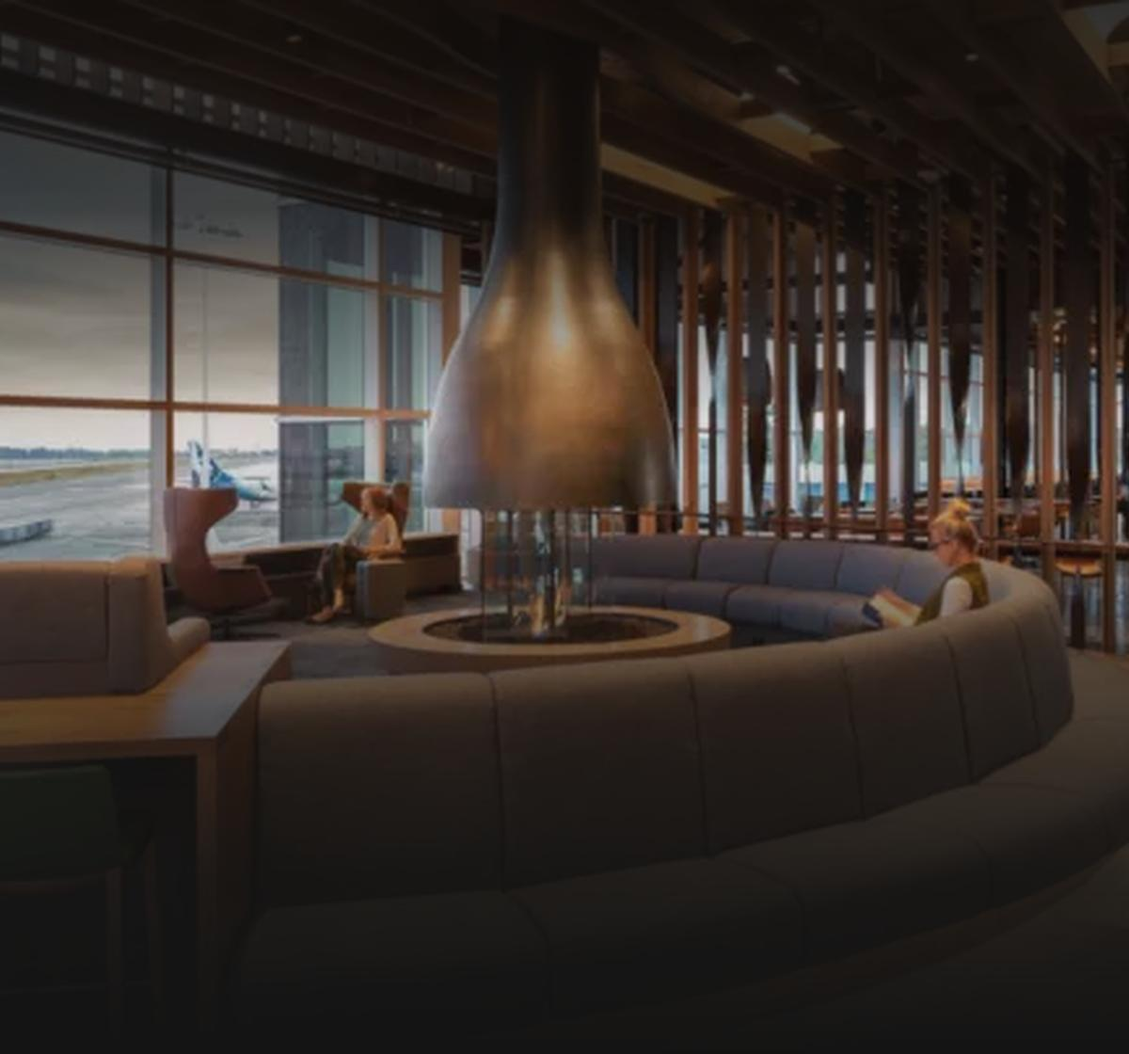
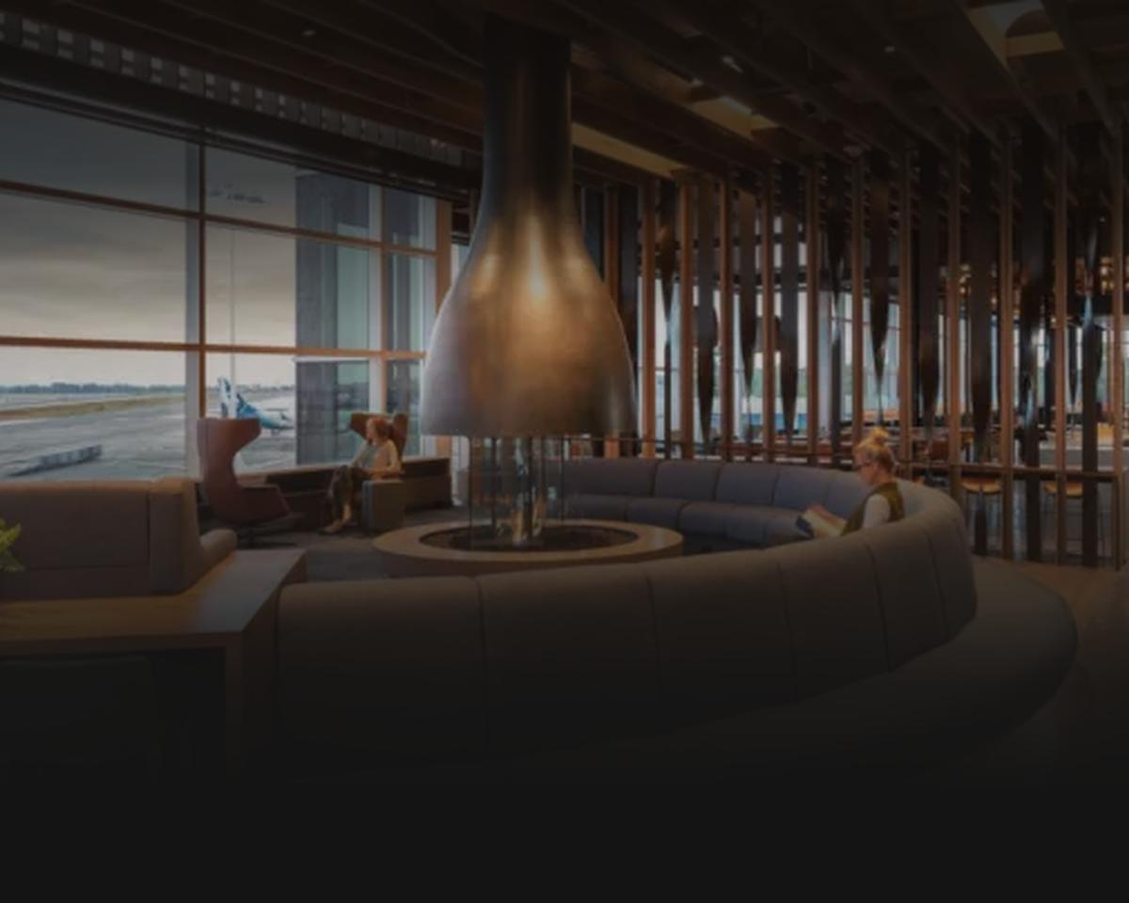
CX Time email: fill the reading pane up to 800px
Opened in a desktop reading pane, the 600px card sat in the middle of
wide empty margins. The card now fills the pane up to 800px. The hero,
Sadu bands and CTA panel span it. The story spreads scale in proportion
(photo 47%, text 53%) instead of using fixed 264/256px cells. The intro
is capped at 600px so its lines stay readable. Outlook for Windows gets
800px ghost tables, and the hero VML is 800x640.

The hero crop becomes 5:4 (1200x960) to match. Its foot fade reaches solid
by 88%, so the hero box can't end on a lighter edge at wide widths, and
the zone behind the date line is checked for brightness too.

Checked at 1000px, 700px, 375px and 400px with no media queries: no
sideways scroll.

Claude-Session: https://claude.ai/code/session_01XUuF7SoRDKbsrKoLScTXEQ

diff --git a/sites/cx-time/email/edition-3/index.html b/sites/cx-time/email/edition-3/index.html
@@ -36,10 +36,10 @@ a[x-apple-data-detectors]{color:inherit!important;text-decoration:none!important
 <body style="margin:0;padding:0;background:#0C0C0C" bgcolor="#0C0C0C">
 <div style="display:none;font-size:1px;line-height:1px;max-height:0;max-width:0;opacity:0;overflow:hidden;mso-hide:all;color:#0C0C0C">Cosm’s in-seat menus, a museum you navigate by mood, and a showroom that starts with lunch.&#847;&zwnj;&nbsp;&#847;&zwnj;&nbsp;&#847;&zwnj;&nbsp;&#847;&zwnj;&nbsp;&#847;&zwnj;&nbsp;&#847;&zwnj;&nbsp;&#847;&zwnj;&nbsp;&#847;&zwnj;&nbsp;&#847;&zwnj;&nbsp;&#847;&zwnj;&nbsp;&#847;&zwnj;&nbsp;&#847;&zwnj;&nbsp;&#847;&zwnj;&nbsp;&#847;&zwnj;&nbsp;&#847;&zwnj;&nbsp;&#847;&zwnj;&nbsp;&#847;&zwnj;&nbsp;&#847;&zwnj;&nbsp;&#847;&zwnj;&nbsp;&#847;&zwnj;&nbsp;&#847;&zwnj;&nbsp;&#847;&zwnj;&nbsp;&#847;&zwnj;&nbsp;&#847;&zwnj;&nbsp;&#847;&zwnj;&nbsp;&#847;&zwnj;&nbsp;&#847;&zwnj;&nbsp;&#847;&zwnj;&nbsp;&#847;&zwnj;&nbsp;&#847;&zwnj;&nbsp;&#847;&zwnj;&nbsp;&#847;&zwnj;&nbsp;&#847;&zwnj;&nbsp;&#847;&zwnj;&nbsp;&#847;&zwnj;&nbsp;&#847;&zwnj;&nbsp;&#847;&zwnj;&nbsp;&#847;&zwnj;&nbsp;&#847;&zwnj;&nbsp;&#847;&zwnj;&nbsp;&#847;&zwnj;&nbsp;&#847;&zwnj;&nbsp;&#847;&zwnj;&nbsp;&#847;&zwnj;&nbsp;&#847;&zwnj;&nbsp;&#847;&zwnj;&nbsp;&#847;&zwnj;&nbsp;&#847;&zwnj;&nbsp;&#847;&zwnj;&nbsp;&#847;&zwnj;&nbsp;&#847;&zwnj;&nbsp;&#847;&zwnj;&nbsp;&#847;&zwnj;&nbsp;&#847;&zwnj;&nbsp;&#847;&zwnj;&nbsp;&#847;&zwnj;&nbsp;&#847;&zwnj;&nbsp;&#847;&zwnj;&nbsp;&#847;&zwnj;&nbsp;&#847;&zwnj;&nbsp;&#847;&zwnj;&nbsp;&#847;&zwnj;&nbsp;&#847;&zwnj;&nbsp;&#847;&zwnj;&nbsp;&#847;&zwnj;&nbsp;&#847;&zwnj;&nbsp;&#847;&zwnj;&nbsp;&#847;&zwnj;&nbsp;&#847;&zwnj;&nbsp;&#847;&zwnj;&nbsp;</div>
 <table role="presentation" width="100%" cellpadding="0" cellspacing="0" border="0" bgcolor="#0C0C0C" style="width:100%;background:#0C0C0C"><tr><td class="outer" align="center" style="padding:32px 0 48px">
-<!--[if mso]><table role="presentation" width="600" cellpadding="0" cellspacing="0" border="0" align="center"><tr><td><![endif]-->
-<table role="presentation" class="w" width="100%" cellpadding="0" cellspacing="0" border="0" bgcolor="#141414" style="width:100%;max-width:600px;background:#141414;margin:0 auto">
+<!--[if mso]><table role="presentation" width="800" cellpadding="0" cellspacing="0" border="0" align="center"><tr><td><![endif]-->
+<table role="presentation" class="w" width="100%" cellpadding="0" cellspacing="0" border="0" bgcolor="#141414" style="width:100%;max-width:800px;background:#141414;margin:0 auto">
 <tr><td style="padding:0">
-<!--[if mso]><v:rect xmlns:v="urn:schemas-microsoft-com:vml" fill="true" stroke="false" style="width:600px;height:560px"><v:fill type="frame" src="https://aldar-cx-time.netlify.app/email/edition-3/hero.jpg" color="#141414"/><v:textbox inset="0,0,0,0"><![endif]-->
+<!--[if mso]><v:rect xmlns:v="urn:schemas-microsoft-com:vml" fill="true" stroke="false" style="width:800px;height:640px"><v:fill type="frame" src="https://aldar-cx-time.netlify.app/email/edition-3/hero.jpg" color="#141414"/><v:textbox inset="0,0,0,0"><![endif]-->
 <table role="presentation" width="100%" cellpadding="0" cellspacing="0" border="0" bgcolor="#141414" background="https://aldar-cx-time.netlify.app/email/edition-3/hero.jpg" style="width:100%;background:#141414 url(https://aldar-cx-time.netlify.app/email/edition-3/hero.jpg) center top / cover no-repeat"><tr><td style="padding:0">
 <table role="presentation" width="100%" cellpadding="0" cellspacing="0" border="0" style="width:100%">
 <tr><td class="px" align="center" style="padding:36px 40px 0;text-align:center">
@@ -50,14 +50,14 @@ a[x-apple-data-detectors]{color:inherit!important;text-decoration:none!important
 <tr><td class="px" style="padding:0 40px 0"><table role="presentation" width="40" cellpadding="0" cellspacing="0" border="0" style="width:40px"><tr><td height="1" bgcolor="#D9B46A" style="height:1px;line-height:1px;font-size:0;background:#D9B46A">&nbsp;</td></tr></table><div style="height:20px;line-height:20px;font-size:0;mso-line-height-rule:exactly;">&nbsp;</div>
 <div style="font-family:'Poppins','Helvetica Neue',Helvetica,Arial,sans-serif;font-size:10px;line-height:14px;mso-line-height-rule:exactly;color:#C4BFB5;letter-spacing:2.6px;text-transform:uppercase;"><span style="color:#E6C47F">Edition 3</span>&nbsp;&nbsp;&middot;&nbsp;&nbsp;2 November 2026</div><div style="height:16px;line-height:16px;font-size:0;mso-line-height-rule:exactly;">&nbsp;</div>
 <div class="h1" style="font-family:'Poppins','Helvetica Neue',Helvetica,Arial,sans-serif;font-size:56px;line-height:60px;mso-line-height-rule:exactly;color:#F3EFE6;letter-spacing:-.8px;font-weight:300;">Worth leaving<br>home for.</div><div style="height:24px;line-height:24px;font-size:0;mso-line-height-rule:exactly;">&nbsp;</div>
-<div style="font-family:'Poppins','Helvetica Neue',Helvetica,Arial,sans-serif;font-size:15px;line-height:26px;mso-line-height-rule:exactly;color:#C4BFB5;">This week’s edition is about the moment a visit stops being a transaction and becomes an experience worth leaving home for. Three stories lead it, and each comes with what it could mean for Aldar.</div></td></tr>
+<div style="font-family:'Poppins','Helvetica Neue',Helvetica,Arial,sans-serif;font-size:15px;line-height:26px;mso-line-height-rule:exactly;color:#C4BFB5;max-width:600px;">This week’s edition is about the moment a visit stops being a transaction and becomes an experience worth leaving home for. Three stories lead it, and each comes with what it could mean for Aldar.</div></td></tr>
 <tr><td height="8" style="height:8px;font-size:0;line-height:0">&nbsp;</td></tr>
 </table></td></tr></table>
 <!--[if mso]></v:textbox></v:rect><![endif]-->
 </td></tr>
-<tr><td class="px" align="center" style="padding:52px 40px 52px;text-align:center"><img src="https://aldar-cx-time.netlify.app/email/assets/pat-sadu-band.png" width="520" height="28" alt="" class="fi" style="display:block;width:520px;max-width:100%;height:auto;border:0;margin:0 auto"></td></tr>
-<tr><td class="px" style="padding:0 40px 0"><table role="presentation" width="100%" cellpadding="0" cellspacing="0" border="0" style="width:100%"><tr><td valign="middle" style="font-size:0;text-align:left"><!--[if mso]><table role="presentation" width="520" cellpadding="0" cellspacing="0" border="0"><tr><td width="264" valign="middle" dir="ltr"><![endif]--><div class="st" dir="ltr" style="display:inline-block;width:100%;max-width:264px;vertical-align:middle;text-align:left"><a href="https://aldar-cx-time.netlify.app" target="_blank"><img src="https://aldar-cx-time.netlify.app/email/edition-3/01.jpg" width="264" height="330" alt="Cosm" class="fi" style="display:block;width:264px;max-width:100%;height:auto;border:0;background:#1E1E1E;font-family:Arial,sans-serif;font-size:12px;color:#8E897F"></a></div><!--[if mso]></td><td width="256" valign="middle" dir="ltr"><![endif]--><div class="st pt16" dir="ltr" style="display:inline-block;width:100%;max-width:256px;vertical-align:middle;text-align:left"><div class="g0" style="padding-left:28px"><div style="font-family:'Poppins','Helvetica Neue',Helvetica,Arial,sans-serif;font-size:56px;line-height:56px;mso-line-height-rule:exactly;color:#D9B46A;font-weight:200;">01</div><div style="height:14px;line-height:14px;font-size:0;mso-line-height-rule:exactly;">&nbsp;</div><div style="font-family:'Poppins','Helvetica Neue',Helvetica,Arial,sans-serif;font-size:9px;line-height:13px;mso-line-height-rule:exactly;color:#8E897F;letter-spacing:2.6px;text-transform:uppercase;">Cosm &middot; Cinema domes</div><div style="height:12px;line-height:12px;font-size:0;mso-line-height-rule:exactly;">&nbsp;</div><div style="font-family:'Poppins','Helvetica Neue',Helvetica,Arial,sans-serif;font-size:24px;line-height:31px;mso-line-height-rule:exactly;color:#F3EFE6;font-weight:300;"><a href="https://aldar-cx-time.netlify.app" target="_blank" style="color:#F3EFE6;text-decoration:none">The film’s own menu, served to your seat</a></div><div style="height:12px;line-height:12px;font-size:0;mso-line-height-rule:exactly;">&nbsp;</div><div style="font-family:'Poppins','Helvetica Neue',Helvetica,Arial,sans-serif;font-size:13px;line-height:22px;mso-line-height-rule:exactly;color:#C4BFB5;">Cosm’s cinema domes pair each film with its own menu and bring it to your seat, so dinner becomes part of the show.</div></div></div><!--[if mso]></td></tr></table><![endif]--></td></tr></table></td></tr><tr><td class="px" style="padding:56px 40px 0"><table role="presentation" width="100%" cellpadding="0" cellspacing="0" border="0" style="width:100%"><tr><td dir="rtl" valign="middle" style="font-size:0;text-align:left"><!--[if mso]><table role="presentation" width="520" cellpadding="0" cellspacing="0" border="0" dir="rtl"><tr><td width="264" valign="middle" dir="ltr"><![endif]--><div class="st" dir="ltr" style="display:inline-block;width:100%;max-width:264px;vertical-align:middle;text-align:left"><a href="https://aldar-cx-time.netlify.app" target="_blank"><img src="https://aldar-cx-time.netlify.app/email/edition-3/02.jpg" width="264" height="330" alt="Portland’s science museum" class="fi" style="display:block;width:264px;max-width:100%;height:auto;border:0;background:#1E1E1E;font-family:Arial,sans-serif;font-size:12px;color:#8E897F"></a></div><!--[if mso]></td><td width="256" valign="middle" dir="ltr"><![endif]--><div class="st pt16" dir="ltr" style="display:inline-block;width:100%;max-width:256px;vertical-align:middle;text-align:left"><div class="g0" style="padding-right:28px"><div style="font-family:'Poppins','Helvetica Neue',Helvetica,Arial,sans-serif;font-size:56px;line-height:56px;mso-line-height-rule:exactly;color:#D9B46A;font-weight:200;">02</div><div style="height:14px;line-height:14px;font-size:0;mso-line-height-rule:exactly;">&nbsp;</div><div style="font-family:'Poppins','Helvetica Neue',Helvetica,Arial,sans-serif;font-size:9px;line-height:13px;mso-line-height-rule:exactly;color:#8E897F;letter-spacing:2.6px;text-transform:uppercase;">Portland’s science museum &middot; Museum</div><div style="height:12px;line-height:12px;font-size:0;mso-line-height-rule:exactly;">&nbsp;</div><div style="font-family:'Poppins','Helvetica Neue',Helvetica,Arial,sans-serif;font-size:24px;line-height:31px;mso-line-height-rule:exactly;color:#F3EFE6;font-weight:300;"><a href="https://aldar-cx-time.netlify.app" target="_blank" style="color:#F3EFE6;text-decoration:none">A route you choose by mood, not by floor plan</a></div><div style="height:12px;line-height:12px;font-size:0;mso-line-height-rule:exactly;">&nbsp;</div><div style="font-family:'Poppins','Helvetica Neue',Helvetica,Arial,sans-serif;font-size:13px;line-height:22px;mso-line-height-rule:exactly;color:#C4BFB5;">Visitors pick their way through the museum by how they want to feel, rather than following a fixed map.</div></div></div><!--[if mso]></td></tr></table><![endif]--></td></tr></table></td></tr><tr><td class="px" style="padding:56px 40px 0"><table role="presentation" width="100%" cellpadding="0" cellspacing="0" border="0" style="width:100%"><tr><td valign="middle" style="font-size:0;text-align:left"><!--[if mso]><table role="presentation" width="520" cellpadding="0" cellspacing="0" border="0"><tr><td width="264" valign="middle" dir="ltr"><![endif]--><div class="st" dir="ltr" style="display:inline-block;width:100%;max-width:264px;vertical-align:middle;text-align:left"><a href="https://aldar-cx-time.netlify.app" target="_blank"><img src="https://aldar-cx-time.netlify.app/email/edition-3/03.jpg" width="264" height="330" alt="Jaguar, London" class="fi" style="display:block;width:264px;max-width:100%;height:auto;border:0;background:#1E1E1E;font-family:Arial,sans-serif;font-size:12px;color:#8E897F"></a></div><!--[if mso]></td><td width="256" valign="middle" dir="ltr"><![endif]--><div class="st pt16" dir="ltr" style="display:inline-block;width:100%;max-width:256px;vertical-align:middle;text-align:left"><div class="g0" style="padding-left:28px"><div style="font-family:'Poppins','Helvetica Neue',Helvetica,Arial,sans-serif;font-size:56px;line-height:56px;mso-line-height-rule:exactly;color:#D9B46A;font-weight:200;">03</div><div style="height:14px;line-height:14px;font-size:0;mso-line-height-rule:exactly;">&nbsp;</div><div style="font-family:'Poppins','Helvetica Neue',Helvetica,Arial,sans-serif;font-size:9px;line-height:13px;mso-line-height-rule:exactly;color:#8E897F;letter-spacing:2.6px;text-transform:uppercase;">Jaguar, London &middot; Showroom</div><div style="height:12px;line-height:12px;font-size:0;mso-line-height-rule:exactly;">&nbsp;</div><div style="font-family:'Poppins','Helvetica Neue',Helvetica,Arial,sans-serif;font-size:24px;line-height:31px;mso-line-height-rule:exactly;color:#F3EFE6;font-weight:300;"><a href="https://aldar-cx-time.netlify.app" target="_blank" style="color:#F3EFE6;text-decoration:none">A showroom that opens with lunch, not a pitch</a></div><div style="height:12px;line-height:12px;font-size:0;mso-line-height-rule:exactly;">&nbsp;</div><div style="font-family:'Poppins','Helvetica Neue',Helvetica,Arial,sans-serif;font-size:13px;line-height:22px;mso-line-height-rule:exactly;color:#C4BFB5;">Jaguar’s London showroom welcomes visitors to the table before anyone talks about a car.</div></div></div><!--[if mso]></td></tr></table><![endif]--></td></tr></table></td></tr>
-<tr><td class="px" align="center" style="padding:60px 40px 0;text-align:center"><img src="https://aldar-cx-time.netlify.app/email/assets/pat-sadu-band.png" width="520" height="28" alt="" class="fi" style="display:block;width:520px;max-width:100%;height:auto;border:0;margin:0 auto"></td></tr>
+<tr><td class="px" align="center" style="padding:52px 40px 52px;text-align:center"><img src="https://aldar-cx-time.netlify.app/email/assets/pat-sadu-band.png" width="720" height="39" alt="" class="fi" style="display:block;width:720px;max-width:100%;height:auto;border:0;margin:0 auto"></td></tr>
+<tr><td class="px" style="padding:0 40px 0"><table role="presentation" width="100%" cellpadding="0" cellspacing="0" border="0" style="width:100%"><tr><td valign="middle" style="font-size:0;text-align:left"><!--[if mso]><table role="presentation" width="720" cellpadding="0" cellspacing="0" border="0"><tr><td width="338" valign="middle" dir="ltr"><![endif]--><div class="st" dir="ltr" style="display:inline-block;width:47%;vertical-align:middle;text-align:left"><a href="https://aldar-cx-time.netlify.app" target="_blank"><img src="https://aldar-cx-time.netlify.app/email/edition-3/01.jpg" width="338" height="423" alt="Cosm" class="fi" style="display:block;width:100%;max-width:100%;height:auto;border:0;background:#1E1E1E;font-family:Arial,sans-serif;font-size:12px;color:#8E897F"></a></div><!--[if mso]></td><td width="382" valign="middle" dir="ltr"><![endif]--><div class="st pt16" dir="ltr" style="display:inline-block;width:53%;vertical-align:middle;text-align:left"><div class="g0" style="padding-left:32px"><div style="font-family:'Poppins','Helvetica Neue',Helvetica,Arial,sans-serif;font-size:56px;line-height:56px;mso-line-height-rule:exactly;color:#D9B46A;font-weight:200;">01</div><div style="height:14px;line-height:14px;font-size:0;mso-line-height-rule:exactly;">&nbsp;</div><div style="font-family:'Poppins','Helvetica Neue',Helvetica,Arial,sans-serif;font-size:9px;line-height:13px;mso-line-height-rule:exactly;color:#8E897F;letter-spacing:2.6px;text-transform:uppercase;">Cosm &middot; Cinema domes</div><div style="height:12px;line-height:12px;font-size:0;mso-line-height-rule:exactly;">&nbsp;</div><div style="font-family:'Poppins','Helvetica Neue',Helvetica,Arial,sans-serif;font-size:24px;line-height:31px;mso-line-height-rule:exactly;color:#F3EFE6;font-weight:300;"><a href="https://aldar-cx-time.netlify.app" target="_blank" style="color:#F3EFE6;text-decoration:none">The film’s own menu, served to your seat</a></div><div style="height:12px;line-height:12px;font-size:0;mso-line-height-rule:exactly;">&nbsp;</div><div style="font-family:'Poppins','Helvetica Neue',Helvetica,Arial,sans-serif;font-size:13px;line-height:22px;mso-line-height-rule:exactly;color:#C4BFB5;">Cosm’s cinema domes pair each film with its own menu and bring it to your seat, so dinner becomes part of the show.</div></div></div><!--[if mso]></td></tr></table><![endif]--></td></tr></table></td></tr><tr><td class="px" style="padding:56px 40px 0"><table role="presentation" width="100%" cellpadding="0" cellspacing="0" border="0" style="width:100%"><tr><td dir="rtl" valign="middle" style="font-size:0;text-align:left"><!--[if mso]><table role="presentation" width="720" cellpadding="0" cellspacing="0" border="0" dir="rtl"><tr><td width="338" valign="middle" dir="ltr"><![endif]--><div class="st" dir="ltr" style="display:inline-block;width:47%;vertical-align:middle;text-align:left"><a href="https://aldar-cx-time.netlify.app" target="_blank"><img src="https://aldar-cx-time.netlify.app/email/edition-3/02.jpg" width="338" height="423" alt="Portland’s science museum" class="fi" style="display:block;width:100%;max-width:100%;height:auto;border:0;background:#1E1E1E;font-family:Arial,sans-serif;font-size:12px;color:#8E897F"></a></div><!--[if mso]></td><td width="382" valign="middle" dir="ltr"><![endif]--><div class="st pt16" dir="ltr" style="display:inline-block;width:53%;vertical-align:middle;text-align:left"><div class="g0" style="padding-right:32px"><div style="font-family:'Poppins','Helvetica Neue',Helvetica,Arial,sans-serif;font-size:56px;line-height:56px;mso-line-height-rule:exactly;color:#D9B46A;font-weight:200;">02</div><div style="height:14px;line-height:14px;font-size:0;mso-line-height-rule:exactly;">&nbsp;</div><div style="font-family:'Poppins','Helvetica Neue',Helvetica,Arial,sans-serif;font-size:9px;line-height:13px;mso-line-height-rule:exactly;color:#8E897F;letter-spacing:2.6px;text-transform:uppercase;">Portland’s science museum &middot; Museum</div><div style="height:12px;line-height:12px;font-size:0;mso-line-height-rule:exactly;">&nbsp;</div><div style="font-family:'Poppins','Helvetica Neue',Helvetica,Arial,sans-serif;font-size:24px;line-height:31px;mso-line-height-rule:exactly;color:#F3EFE6;font-weight:300;"><a href="https://aldar-cx-time.netlify.app" target="_blank" style="color:#F3EFE6;text-decoration:none">A route you choose by mood, not by floor plan</a></div><div style="height:12px;line-height:12px;font-size:0;mso-line-height-rule:exactly;">&nbsp;</div><div style="font-family:'Poppins','Helvetica Neue',Helvetica,Arial,sans-serif;font-size:13px;line-height:22px;mso-line-height-rule:exactly;color:#C4BFB5;">Visitors pick their way through the museum by how they want to feel, rather than following a fixed map.</div></div></div><!--[if mso]></td></tr></table><![endif]--></td></tr></table></td></tr><tr><td class="px" style="padding:56px 40px 0"><table role="presentation" width="100%" cellpadding="0" cellspacing="0" border="0" style="width:100%"><tr><td valign="middle" style="font-size:0;text-align:left"><!--[if mso]><table role="presentation" width="720" cellpadding="0" cellspacing="0" border="0"><tr><td width="338" valign="middle" dir="ltr"><![endif]--><div class="st" dir="ltr" style="display:inline-block;width:47%;vertical-align:middle;text-align:left"><a href="https://aldar-cx-time.netlify.app" target="_blank"><img src="https://aldar-cx-time.netlify.app/email/edition-3/03.jpg" width="338" height="423" alt="Jaguar, London" class="fi" style="display:block;width:100%;max-width:100%;height:auto;border:0;background:#1E1E1E;font-family:Arial,sans-serif;font-size:12px;color:#8E897F"></a></div><!--[if mso]></td><td width="382" valign="middle" dir="ltr"><![endif]--><div class="st pt16" dir="ltr" style="display:inline-block;width:53%;vertical-align:middle;text-align:left"><div class="g0" style="padding-left:32px"><div style="font-family:'Poppins','Helvetica Neue',Helvetica,Arial,sans-serif;font-size:56px;line-height:56px;mso-line-height-rule:exactly;color:#D9B46A;font-weight:200;">03</div><div style="height:14px;line-height:14px;font-size:0;mso-line-height-rule:exactly;">&nbsp;</div><div style="font-family:'Poppins','Helvetica Neue',Helvetica,Arial,sans-serif;font-size:9px;line-height:13px;mso-line-height-rule:exactly;color:#8E897F;letter-spacing:2.6px;text-transform:uppercase;">Jaguar, London &middot; Showroom</div><div style="height:12px;line-height:12px;font-size:0;mso-line-height-rule:exactly;">&nbsp;</div><div style="font-family:'Poppins','Helvetica Neue',Helvetica,Arial,sans-serif;font-size:24px;line-height:31px;mso-line-height-rule:exactly;color:#F3EFE6;font-weight:300;"><a href="https://aldar-cx-time.netlify.app" target="_blank" style="color:#F3EFE6;text-decoration:none">A showroom that opens with lunch, not a pitch</a></div><div style="height:12px;line-height:12px;font-size:0;mso-line-height-rule:exactly;">&nbsp;</div><div style="font-family:'Poppins','Helvetica Neue',Helvetica,Arial,sans-serif;font-size:13px;line-height:22px;mso-line-height-rule:exactly;color:#C4BFB5;">Jaguar’s London showroom welcomes visitors to the table before anyone talks about a car.</div></div></div><!--[if mso]></td></tr></table><![endif]--></td></tr></table></td></tr>
+<tr><td class="px" align="center" style="padding:60px 40px 0;text-align:center"><img src="https://aldar-cx-time.netlify.app/email/assets/pat-sadu-band.png" width="720" height="39" alt="" class="fi" style="display:block;width:720px;max-width:100%;height:auto;border:0;margin:0 auto"></td></tr>
 <tr><td class="px" style="padding:48px 24px 0">
 <table role="presentation" width="100%" cellpadding="0" cellspacing="0" border="0" bgcolor="#1C1A16" style="width:100%;background:#1C1A16;background-image:linear-gradient(180deg,#24211B 0%,#16140F 100%);border:1px solid #3A3226;border-collapse:separate;border-radius:4px"><tr><td align="center" class="px" style="padding:56px 48px 54px;text-align:center">
 <div style="font-family:'Poppins','Helvetica Neue',Helvetica,Arial,sans-serif;font-size:10px;line-height:14px;mso-line-height-rule:exactly;color:#C4BFB5;letter-spacing:3px;text-transform:uppercase;">Edition 3 is live in the Hub</div><div style="height:18px;line-height:18px;font-size:0;mso-line-height-rule:exactly;">&nbsp;</div>

diff --git a/pipeline/cxtime/edm.py b/pipeline/cxtime/edm.py
@@ -4,13 +4,12 @@ render(data) returns send-ready email HTML that follows the approved reference f
 presentation tables, inline styles, Outlook conditionals and VML, a hidden preheader, Poppins
 with Arial for Outlook, and no "For Aldar" lines.
 
-It fits the reading window. The card is fluid (100% wide, at most 600px), so it shrinks to a
-narrow reading pane or a phone even where media queries are ignored. The story spreads are
-"fluid hybrid": two inline-blocks that sit side by side when there is room and stack when there
-isn't (image first in every row, via the dir="rtl" swap on 02). Outlook for Windows, which
-supports neither, gets fixed 600px ghost tables.
+It fits the reading window. The card is fluid: it fills the pane up to 800px (wider than the
+600px design board, so a desktop reading pane isn't mostly empty margin) and shrinks to any
+narrower pane or phone. The story spreads scale in proportion (photo 47%, text 53%) and stack,
+photo first, below 620px (02 via the dir="rtl" swap). Outlook for Windows gets 800px ghost tables.
 
-make_images() writes the JPEG crops: the hero at 1200x1120 with both fades baked into the pixels,
+make_images() writes the JPEG crops: the hero at 1200x960 with both fades baked into the pixels,
 and the story photos at 528x660. make_patterns() draws the Sadu lozenge PNGs. Everything is
 written under sites/cx-time/email/ and so is hosted with the CX Time site.
 """
@@ -82,16 +81,17 @@ def _p99(zone):
 
 
 def _hero(src):
-    """1200x1120 cover crop (anchor 35% / 50%) with the two fades baked in: darkened behind the
+    """1200x960 cover crop (anchor 35% / 50%) with the two fades baked in: darkened behind the
     masthead, solid card colour at the foot. Over a bright photograph both fades deepen until the
     type reads: the masthead zone to a mean luminance of about 68 (peak about 125), and the zone
-    behind the date line and headline (58-80% of the height) to a mean of about 60."""
-    W, H = 1200, 1120
+    behind the date line and headline (50-80% of the height) to a mean of about 52."""
+    W, H = 1200, 960
     base = _cover(src, W, H, 0.35, 0.5)
     top_h = int(H * 0.44)
     top_stops = [(0, .86), (.45, .72), (.75, .35), (1, 0)]
     for k, shift in ((1.0, 0), (1.1, .04), (1.2, .08), (1.3, .12), (1.45, .16), (1.6, .2)):
-        foot_stops = [(0, 0), (.40 - shift, 0), (.62 - shift, .6 + shift), (.84 - shift / 2, .92), (1, 1)]
+        # solid card colour from 88% down: the hero box can end above the image's foot at wide widths
+        foot_stops = [(0, 0), (.36 - shift, 0), (.56 - shift, .6 + shift), (.76 - shift / 2, .94), (.88, 1), (1, 1)]
         im = base.copy()
         top = Image.new("L", (1, H), 0)
         foot = Image.new("L", (1, H), 0)
@@ -102,9 +102,9 @@ def _hero(src):
         im = Image.composite(Image.new("RGB", (W, H), (14, 13, 12)), im, top.resize((W, H)))
         im = Image.composite(Image.new("RGB", (W, H), (20, 20, 20)), im, foot.resize((W, H)))
         mast = im.crop((0, 0, W, int(H * 0.30))).convert("L")
-        text = im.crop((0, int(H * 0.58), W, int(H * 0.80))).convert("L")
+        text = im.crop((0, int(H * 0.50), W, int(H * 0.80))).convert("L")
         if (ImageStat.Stat(mast).mean[0] <= 72 and _p99(mast) <= 130
-                and ImageStat.Stat(text).mean[0] <= 60):
+                and ImageStat.Stat(text).mean[0] <= 52 and _p99(text) <= 150):
             break
     return im
 
@@ -217,15 +217,15 @@ a[x-apple-data-detectors]{{color:inherit!important;text-decoration:none!importan
 
 
 def _story(k, s, url, flip):
-    """One spread: a 264px photo and a 256px text block (28px gutter inside it). Inline-blocks
-    sit side by side in a 520px row and stack, photo first, in anything narrower."""
-    img = (f'<a href="{url}" target="_blank"><img src="{e(s["image"])}" width="264" height="330" alt="{e(s["who"])}" '
-           f'class="fi" style="display:block;width:264px;max-width:100%;height:auto;border:0;background:#1E1E1E;'
+    """One spread: the photo takes 47% of the row and the text 53% (with its 32px gutter inside),
+    so the pair scales with the card from 800px down; below 620px they stack, photo first."""
+    img = (f'<a href="{url}" target="_blank"><img src="{e(s["image"])}" width="338" height="423" alt="{e(s["who"])}" '
+           f'class="fi" style="display:block;width:100%;max-width:100%;height:auto;border:0;background:#1E1E1E;'
            f'font-family:Arial,sans-serif;font-size:12px;color:{MUTED}"></a>') if s.get("image") else (
-           f'<table role="presentation" width="264" cellpadding="0" cellspacing="0" border="0" class="fi" style="width:264px">'
-           f'<tr><td height="330" bgcolor="#1E1E1E" style="height:330px;background:#1E1E1E">&nbsp;</td></tr></table>')
+           f'<table role="presentation" width="100%" cellpadding="0" cellspacing="0" border="0" style="width:100%">'
+           f'<tr><td height="420" bgcolor="#1E1E1E" style="height:420px;background:#1E1E1E">&nbsp;</td></tr></table>')
     kind = f' &middot; {e(s["kind"])}' if s.get("kind") else ""
-    pad = "padding-right:28px" if flip else "padding-left:28px"
+    pad = "padding-right:32px" if flip else "padding-left:32px"
     text = (f'<div style="{F}font-size:56px;line-height:56px;{X}color:{RULE};font-weight:200;">{k:02d}</div>{gap(14)}'
             f'<div style="{F}font-size:9px;line-height:13px;{X}color:{MUTED};letter-spacing:2.6px;text-transform:uppercase;">'
             f'{e(s["who"])}{kind}</div>{gap(12)}'
@@ -237,11 +237,11 @@ def _story(k, s, url, flip):
     return (f'<tr><td class="px" style="padding:{top} 40px 0">'
             f'<table role="presentation" width="100%" cellpadding="0" cellspacing="0" border="0" style="width:100%"><tr>'
             f'<td{d} valign="middle" style="font-size:0;text-align:left">'
-            f'<!--[if mso]><table role="presentation" width="520" cellpadding="0" cellspacing="0" border="0"{d}><tr>'
-            f'<td width="264" valign="middle" dir="ltr"><![endif]-->'
-            f'<div class="st" dir="ltr" style="display:inline-block;width:100%;max-width:264px;vertical-align:middle;text-align:left">{img}</div>'
-            f'<!--[if mso]></td><td width="256" valign="middle" dir="ltr"><![endif]-->'
-            f'<div class="st pt16" dir="ltr" style="display:inline-block;width:100%;max-width:256px;vertical-align:middle;text-align:left">'
+            f'<!--[if mso]><table role="presentation" width="720" cellpadding="0" cellspacing="0" border="0"{d}><tr>'
+            f'<td width="338" valign="middle" dir="ltr"><![endif]-->'
+            f'<div class="st" dir="ltr" style="display:inline-block;width:47%;vertical-align:middle;text-align:left">{img}</div>'
+            f'<!--[if mso]></td><td width="382" valign="middle" dir="ltr"><![endif]-->'
+            f'<div class="st pt16" dir="ltr" style="display:inline-block;width:53%;vertical-align:middle;text-align:left">'
             f'<div class="g0" style="{pad}">{text}</div></div>'
             f'<!--[if mso]></td></tr></table><![endif]-->'
             f'</td></tr></table></td></tr>')
@@ -257,18 +257,18 @@ def render(d):
     bg_attr = f' background="{hero}"' if hero else ""
     bg_css = f"background:#141414 url({hero}) center top / cover no-repeat" if hero else "background:#141414"
     vml_open = (f'<!--[if mso]><v:rect xmlns:v="urn:schemas-microsoft-com:vml" fill="true" stroke="false" '
-                f'style="width:600px;height:560px"><v:fill type="frame" src="{hero}" color="#141414"/>'
+                f'style="width:800px;height:640px"><v:fill type="frame" src="{hero}" color="#141414"/>'
                 f'<v:textbox inset="0,0,0,0"><![endif]-->') if hero else ""
     vml_close = '<!--[if mso]></v:textbox></v:rect><![endif]-->' if hero else ""
-    band = (f'<img src="{assets}/pat-sadu-band.png" width="520" height="28" alt="" class="fi" '
-            f'style="display:block;width:520px;max-width:100%;height:auto;border:0;margin:0 auto">')
+    band = (f'<img src="{assets}/pat-sadu-band.png" width="720" height="39" alt="" class="fi" '
+            f'style="display:block;width:720px;max-width:100%;height:auto;border:0;margin:0 auto">')
     stories = "".join(_story(k, s, url, k == 2) for k, s in enumerate(d["stories"], 1))
     btn = "Read the edition"
     body = f"""<body style="margin:0;padding:0;background:#0C0C0C" bgcolor="#0C0C0C">
 <div style="display:none;font-size:1px;line-height:1px;max-height:0;max-width:0;opacity:0;overflow:hidden;mso-hide:all;color:#0C0C0C">{e(d["preheader"])}{PRE_PAD}</div>
 <table role="presentation" width="100%" cellpadding="0" cellspacing="0" border="0" bgcolor="#0C0C0C" style="width:100%;background:#0C0C0C"><tr><td class="outer" align="center" style="padding:32px 0 48px">
-<!--[if mso]><table role="presentation" width="600" cellpadding="0" cellspacing="0" border="0" align="center"><tr><td><![endif]-->
-<table role="presentation" class="w" width="100%" cellpadding="0" cellspacing="0" border="0" bgcolor="#141414" style="width:100%;max-width:600px;background:#141414;margin:0 auto">
+<!--[if mso]><table role="presentation" width="800" cellpadding="0" cellspacing="0" border="0" align="center"><tr><td><![endif]-->
+<table role="presentation" class="w" width="100%" cellpadding="0" cellspacing="0" border="0" bgcolor="#141414" style="width:100%;max-width:800px;background:#141414;margin:0 auto">
 <tr><td style="padding:0">
 {vml_open}
 <table role="presentation" width="100%" cellpadding="0" cellspacing="0" border="0" bgcolor="#141414"{bg_attr} style="width:100%;{bg_css}"><tr><td style="padding:0">
@@ -281,7 +281,7 @@ def render(d):
 <tr><td class="px" style="padding:0 40px 0">{rule(40)}{gap(20)}
 <div style="{F}font-size:10px;line-height:14px;{X}color:{BODY};letter-spacing:2.6px;text-transform:uppercase;"><span style="color:{HI}">Edition {n}</span>&nbsp;&nbsp;&middot;&nbsp;&nbsp;{e(d["date"])}</div>{gap(16)}
 <div class="h1" style="{F}font-size:56px;line-height:60px;{X}color:{IVORY};letter-spacing:-.8px;font-weight:300;">{two_lines(d["headline"])}</div>{gap(24)}
-<div style="{F}font-size:15px;line-height:26px;{X}color:{BODY};">{e(d["intro"])}</div></td></tr>
+<div style="{F}font-size:15px;line-height:26px;{X}color:{BODY};max-width:600px;">{e(d["intro"])}</div></td></tr>
 <tr><td height="8" style="height:8px;font-size:0;line-height:0">&nbsp;</td></tr>
 </table></td></tr></table>
 {vml_close}

diff --git a/pipeline/tests/e2e_offline.py b/pipeline/tests/e2e_offline.py
@@ -159,9 +159,9 @@ def main():
     page = repo / "sites" / "cx-time" / "email" / f"edition-{N}" / "index.html"
     em = page.read_text() if page.exists() else ""
     assert "Read the edition" in em and "Mock<br>headline." in em and "For Aldar" not in em, "EDM built (4b, no For Aldar lines)"
-    assert 'max-width:600px' in em and 'display:inline-block' in em, "EDM is fluid: fits the reading window"
+    assert 'max-width:800px' in em and 'display:inline-block' in em, "EDM is fluid: fits the reading window"
     from PIL import Image as _I
-    assert _I.open(page.parent / "hero.jpg").size == (1200, 1120) and _I.open(page.parent / "01.jpg").size == (528, 660), "EDM photos cropped"
+    assert _I.open(page.parent / "hero.jpg").size == (1200, 960) and _I.open(page.parent / "01.jpg").size == (528, 660), "EDM photos cropped"
     assert (page.parents[1] / "assets" / "pat-sadu-band.png").exists(), "Sadu patterns written"
     box = json.loads((repo / "data" / "cxtime-outbox.json").read_text())["emails"]
     assert len([m for m in box if m["edition"] == N]) == 1

diff --git a/docs/edm/README.md b/docs/edm/README.md
@@ -197,7 +197,7 @@ These are gold `#E6C47F` line work, drawn at 2× and faded horizontally with an 
 - In the project root (not in this folder): `CX Time EDM Options.dc.html` is the review canvas. 4b is under Turn 4, and the Tweaks panel has a 375px mobile toggle.
 
 ## How the pipeline builds it (`pipeline/cxtime/edm.py`)
-- **Fits the reading window.** The card is fluid: `width:100%; max-width:600px`, not a fixed 600px, so it shrinks to a narrow reading pane or phone even in mail apps that ignore the media query. The story spreads are fluid-hybrid inline-blocks (264px photo + 256px text with the 28px gutter inside it). They sit side by side at 520px and stack, photo first, below that. Outlook for Windows gets 600px ghost tables. The CTA button may wrap, so it never forces the email wider than the window.
+- **Fits the reading window.** The card fills the reading pane up to **800px** (wider than the 600px design board, so a desktop pane isn't mostly empty margin) and shrinks to any narrower pane or phone. The hero, bands and CTA panel span the card. The intro is capped at 600px to keep its lines readable. The story spreads scale in proportion (photo 47%, text 53%, with a 32px gutter) and stack below 620px. Outlook for Windows gets 800px ghost tables, and the hero VML is 800×640 to match the 1200×960 hero. The CTA button may wrap rather than widen the email.
 - **Story 02** uses the `dir="rtl"` swap, so every row stacks photo first on phones.
 - **Hero photo** is a story from the edition that the email does not feature, so the lead's photo isn't shown twice in a row. Over bright photographs both baked fades deepen automatically: the masthead zone, and the zone behind the date line and headline.
 - **Headline** is set on two lines, split where the lines come out most even, unless the editor gives an explicit line break.
